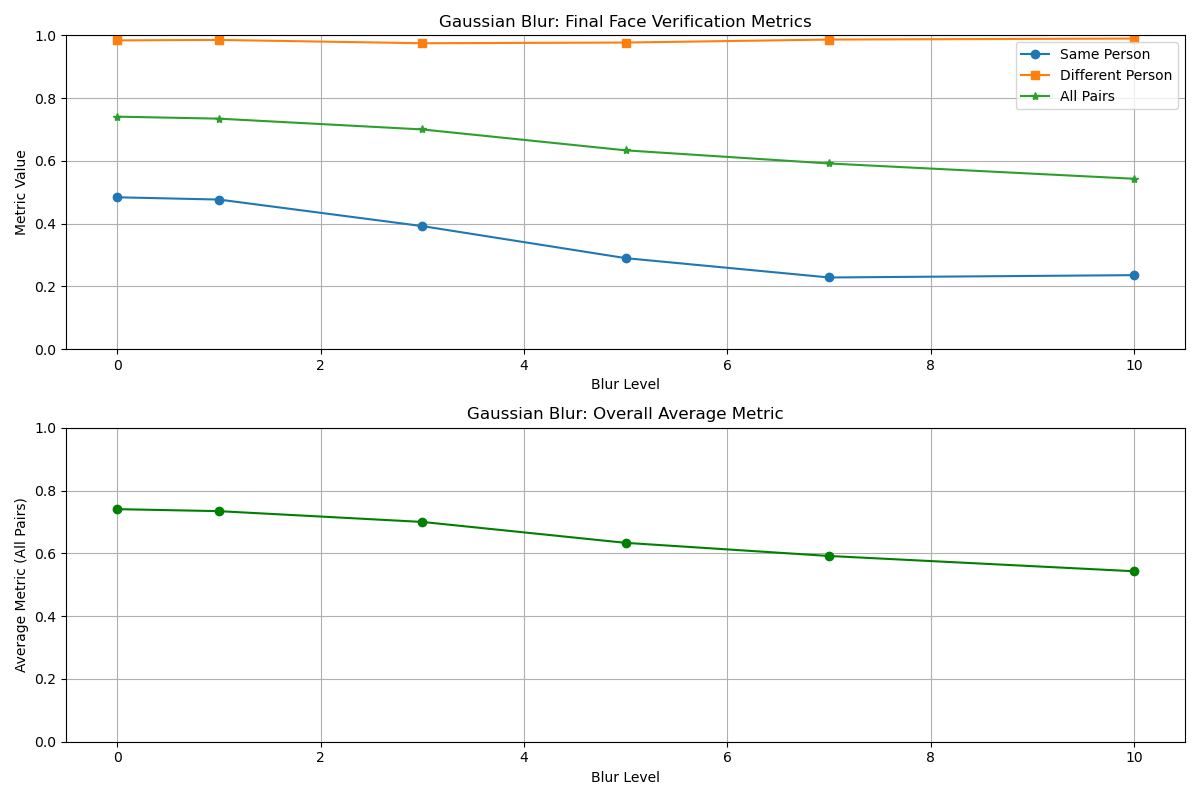
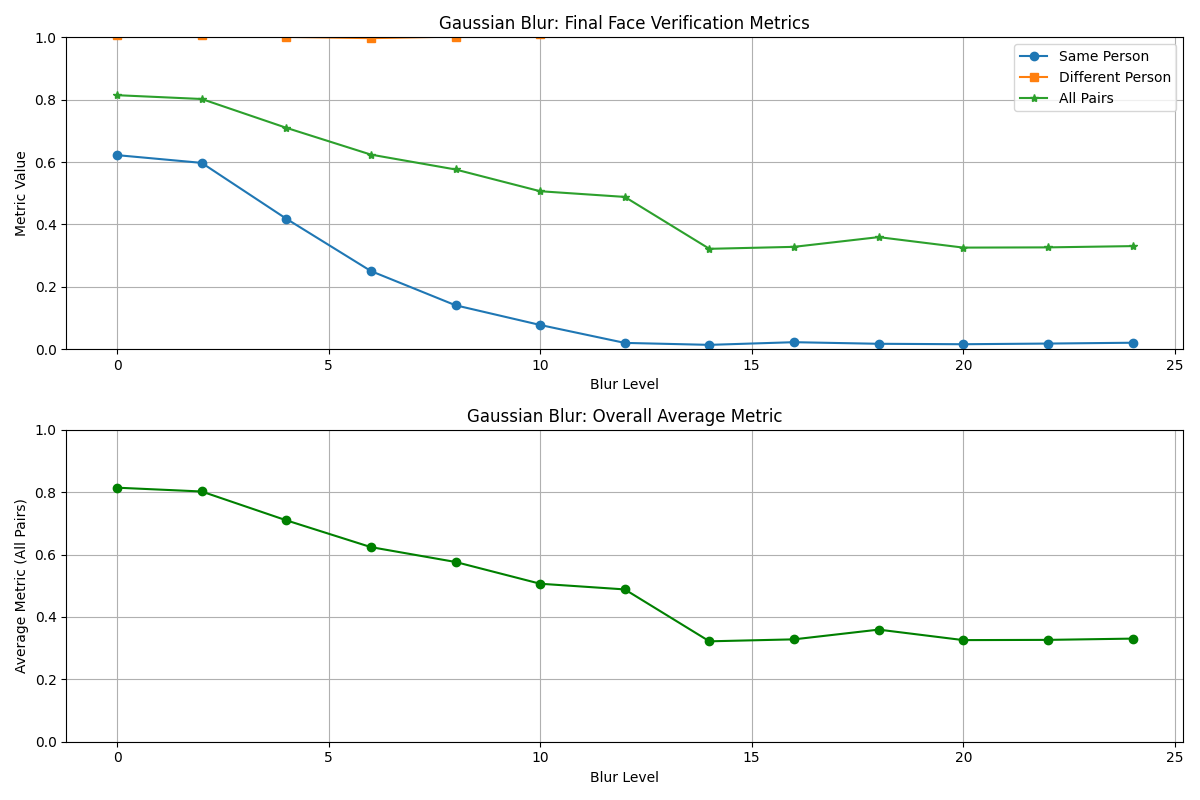
all focking plots amirite

diff --git a/arcface_finfin.py b/arcface_finfin.py
@@ -121,7 +121,7 @@ class FaceVerifier:
 
     def evaluate_blur_effects(self, same_person_dataset, diff_person_dataset, num_pairs=100, 
                             # blur_levels=[0, 1, 3, 5, 7, 10], 
-                            blur_levels=[0, 1, 3, 5, 7, 10],
+                            blur_levels=range(0, 25, 2),
                             report_interval=10, save_path="arcface_eval_results",
                             blur_type='gaussian', **kwargs):
         """
@@ -309,13 +309,14 @@ class FaceVerifier:
 
 def parse_args():
     parser = argparse.ArgumentParser(description='Evaluate blur effects on face verification')
-    parser.add_argument('--root_dir', type=str, required=True, help='Root directory of the dataset')
+    # parser.add_argument('--root_dir', type=str, required=True, help='Root directory of the dataset')
+    parser.add_argument('--root_dir', type=str, required=False, default="data/lfw", help='Root directory of the dataset')
     parser.add_argument('--num_pairs', type=int, default=100, help='Number of image pairs to evaluate')
     parser.add_argument('--report_interval', type=int, default=10, help='Interval at which to save intermediate results')
-    parser.add_argument('--blur_levels', type=int, nargs='+', default=[0, 1, 3, 5, 7, 10], 
-                       help='Blur levels to evaluate (sigma for Gaussian, pixel size for pixelation)')
-    # parser.add_argument('--blur_levels', type=int, nargs='+', default=[10, 15, 20, 25, 30, 35, 40],
-    #                       help='Blur levels to evaluate (sigma for Gaussian, pixel size for pixelation)')
+    # parser.add_argument('--blur_levels', type=int, nargs='+', default=[0, 1, 3, 5, 7, 10], 
+                    #    help='Blur levels to evaluate (sigma for Gaussian, pixel size for pixelation)')
+    parser.add_argument('--blur_levels', type=int, nargs='+', default=range(0,25,2),
+                          help='Blur levels to evaluate (sigma for Gaussian, pixel size for pixelation)')
     parser.add_argument('--det_size', type=int, default=640, help='Detection size for InsightFace')
     parser.add_argument('--save_path', type=str, default="arcface_eval_results", help='Directory to save results')
     parser.add_argument('--dataset', type=str, default='lfw', choices=['lfw', 'celeba'], help='Which dataset to use: lfw or celeba')

diff --git a/evaluate_model.py b/evaluate_model.py
@@ -37,6 +37,7 @@ class ModelWrapper:
         
     def get_embedding(self, img, model_type='sharp'):
         """Extract face embedding from an image"""
+
         with torch.no_grad():
             img = self.test_transform(img).to(device).unsqueeze(0)
             
@@ -55,7 +56,8 @@ class FaceVerifier:
     def __init__(self, model_configs, det_size=(640, 640)):
         self.models = []
         self.train_transform, self.test_transform = get_transforms(img_size=224)
-        self.tight_crop = True
+        # self.tight_crop = True
+        self.tight_crop = False
         
         for config in model_configs:
             model = ModelWrapper(
@@ -284,8 +286,8 @@ def main():
     model_configs = [
         {
             'name': 'Experiment 4',
-            'sharpnet_path': "./sharpnet-3-4-20.pt",
-            'blurnet_path': "./blurnet-3-4-20.pt"
+            'sharpnet_path': "./weights_model2/sharpnet-1-8-49.pt",
+            'blurnet_path': "./weights_model2/blurnet-1-8-49.pt"
         },
         # {
         #     'name': 'Experiment 2', 
@@ -316,8 +318,8 @@ def main():
         #create celeba dataset here
         pass
     
-    args.num_pairs = min(len(same_person_dataset), len(diff_person_dataset))
-    # args.num_pairs = 50
+    # args.num_pairs = min(len(same_person_dataset), len(diff_person_dataset))
+    args.num_pairs = 1800
 
     print(f"Evaluating blur effects on {args.num_pairs} image pairs...")
     

diff --git a/plot_results.py b/plot_results.py
@@ -1,7 +1,12 @@
 import matplotlib.pyplot as plt
 
 
-files = ["eval_results/eval_tight.txt", "eval_results/eval_arcface.txt"] 
+files = {
+        "eval_results/eval_tight.txt": ("o", "solid"),
+        "eval_results/eval_arcface.txt": ("o", "solid"),
+        "eval_results/eval_model2.txt": ("X", "dashed"),
+        "eval_results/random_crop_random_blur.txt": ("X", "dashed"),
+         }
 
 model_vals = {}
 
@@ -45,7 +50,8 @@ for idx, metric in enumerate(("same", "diff", "all")):
 
     for file in files:
         plt.plot(model_vals[file][metric].keys(), model_vals[file][metric].values(),
-                 marker='o', label=model_vals[file]["label"], linewidth=3)
+                 marker=files[file][0], linestyle=files[file][1],
+                 label=model_vals[file]["label"], linewidth=3)
 
     
     plt.xlabel('Blur Sigma')
@@ -53,6 +59,7 @@ for idx, metric in enumerate(("same", "diff", "all")):
     plt.title(titles[idx])
     plt.legend()
     plt.grid(True)
-    plt.ylim(0.0,0.8)
+    plt.ylim(0.0,1)
+    # plt.ylim(0.0,0.8)
 
     plt.show()
